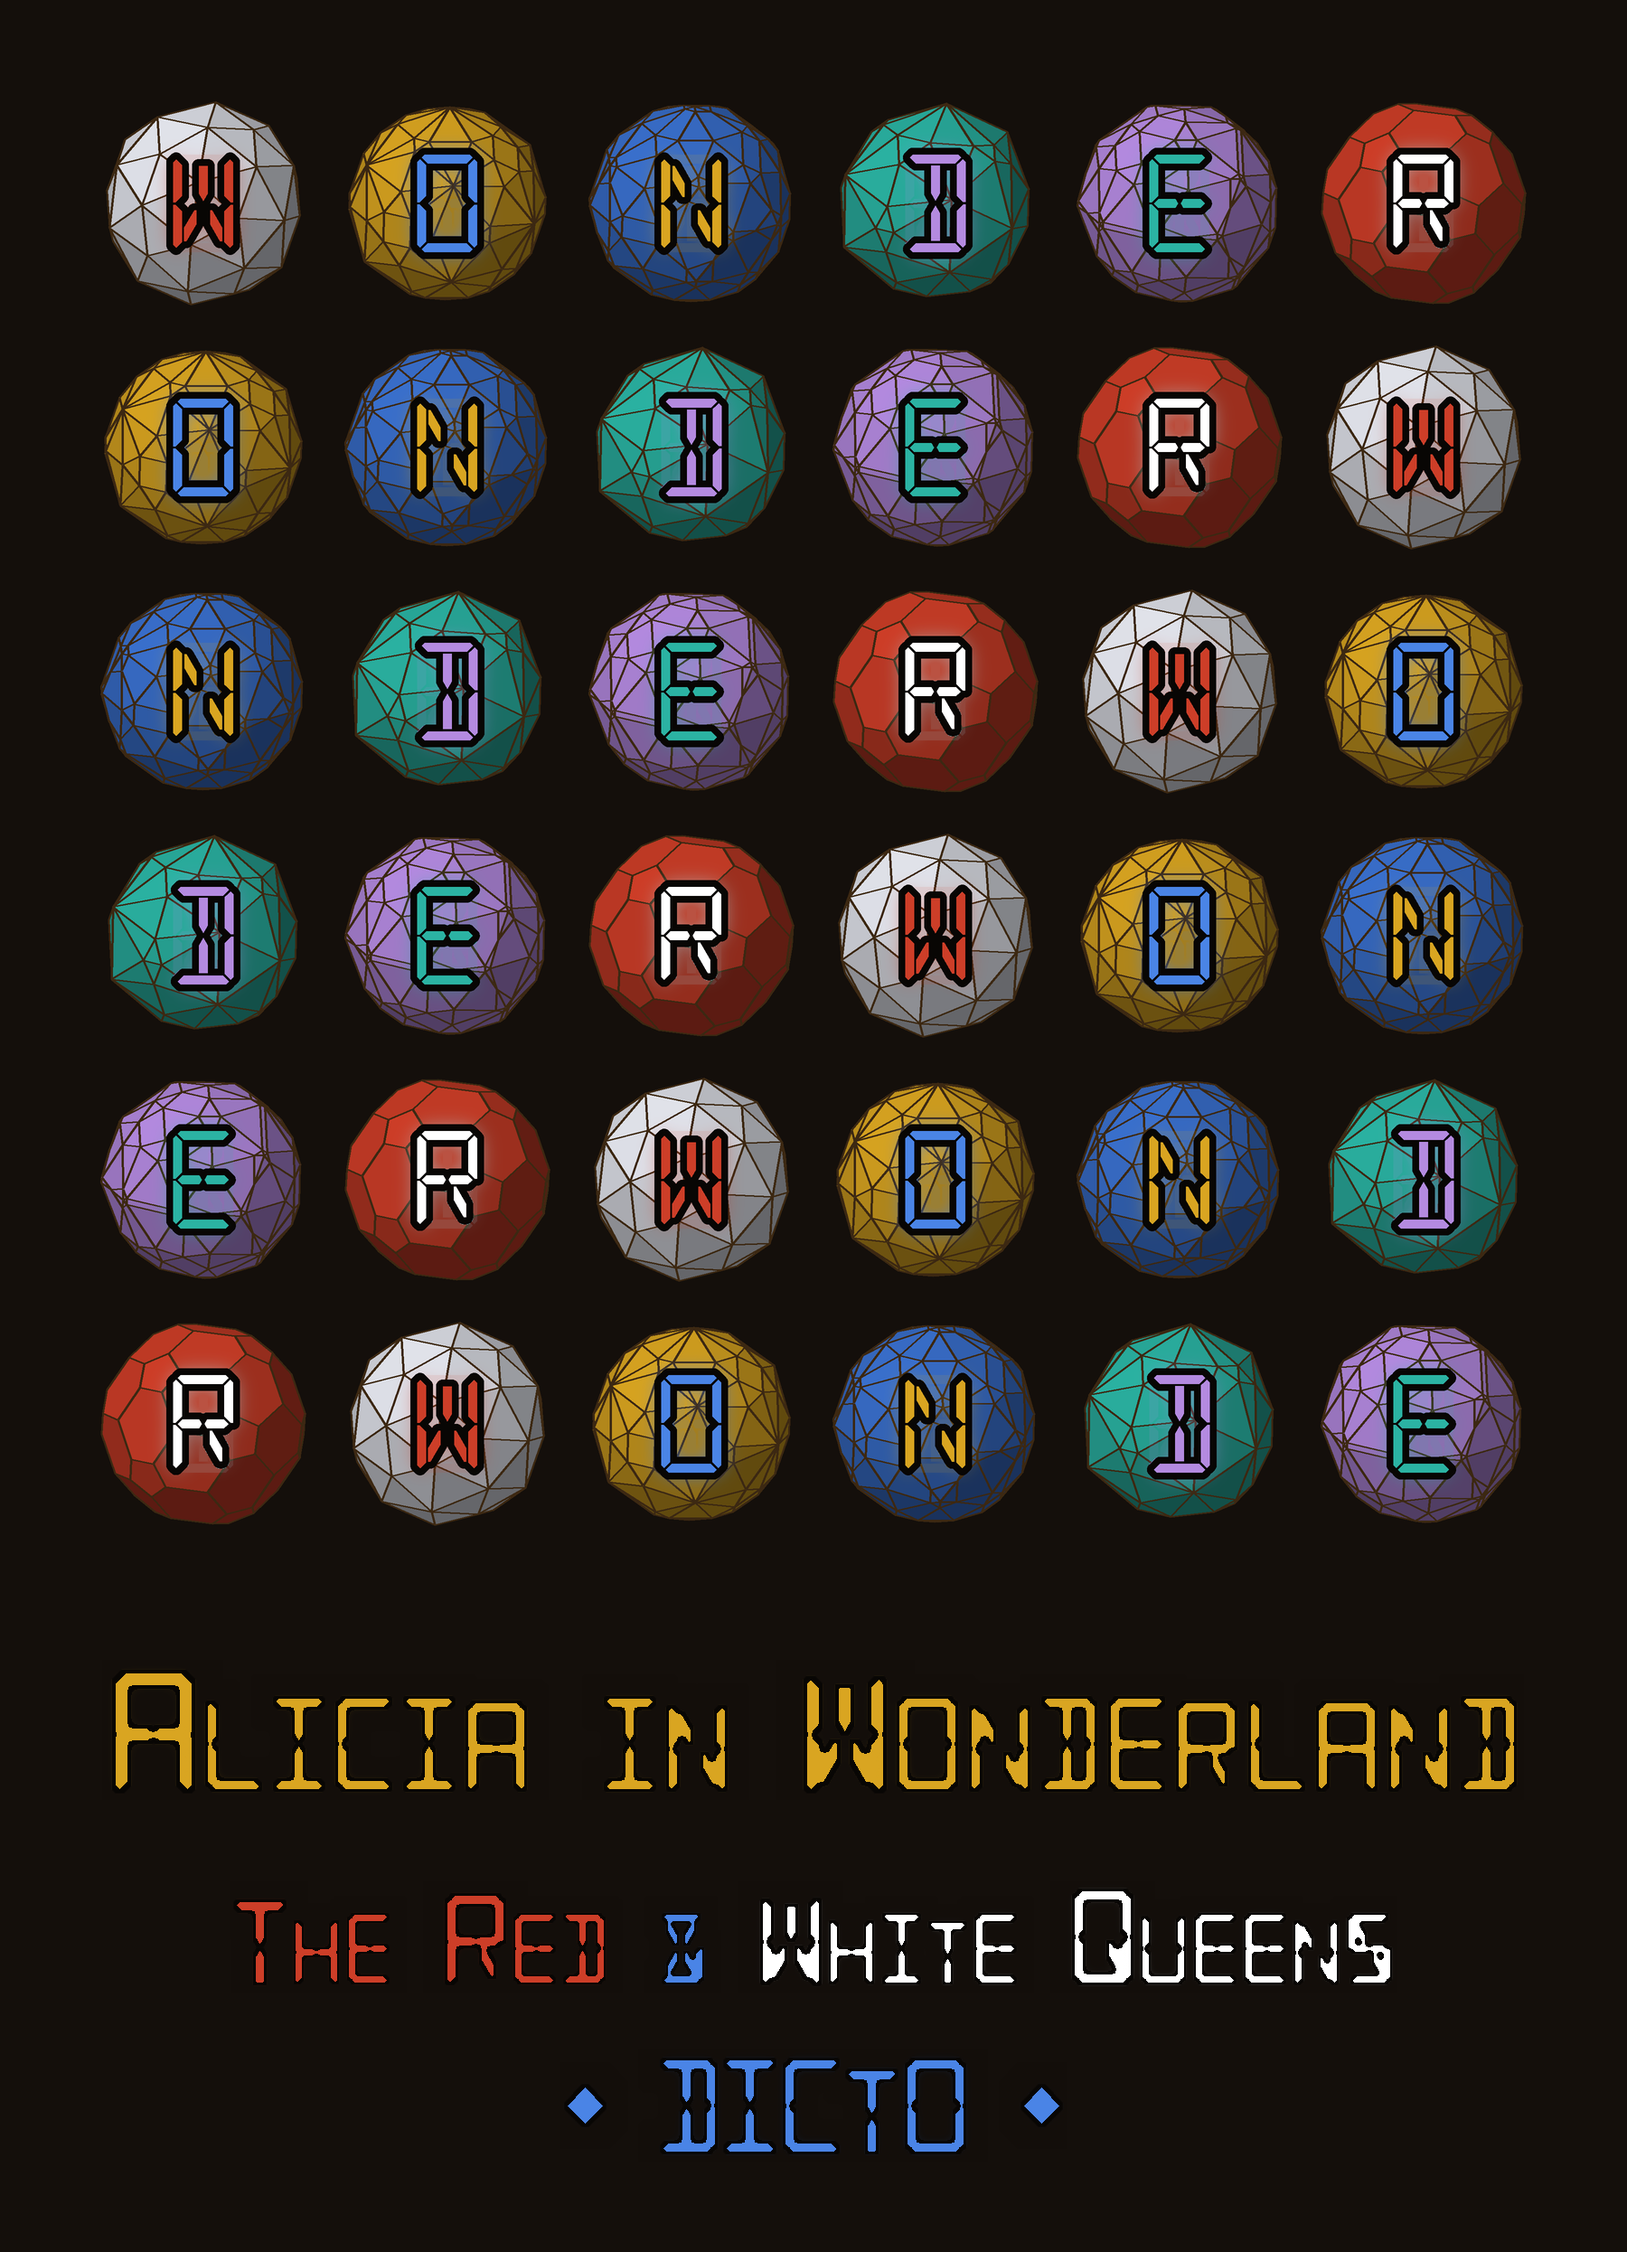
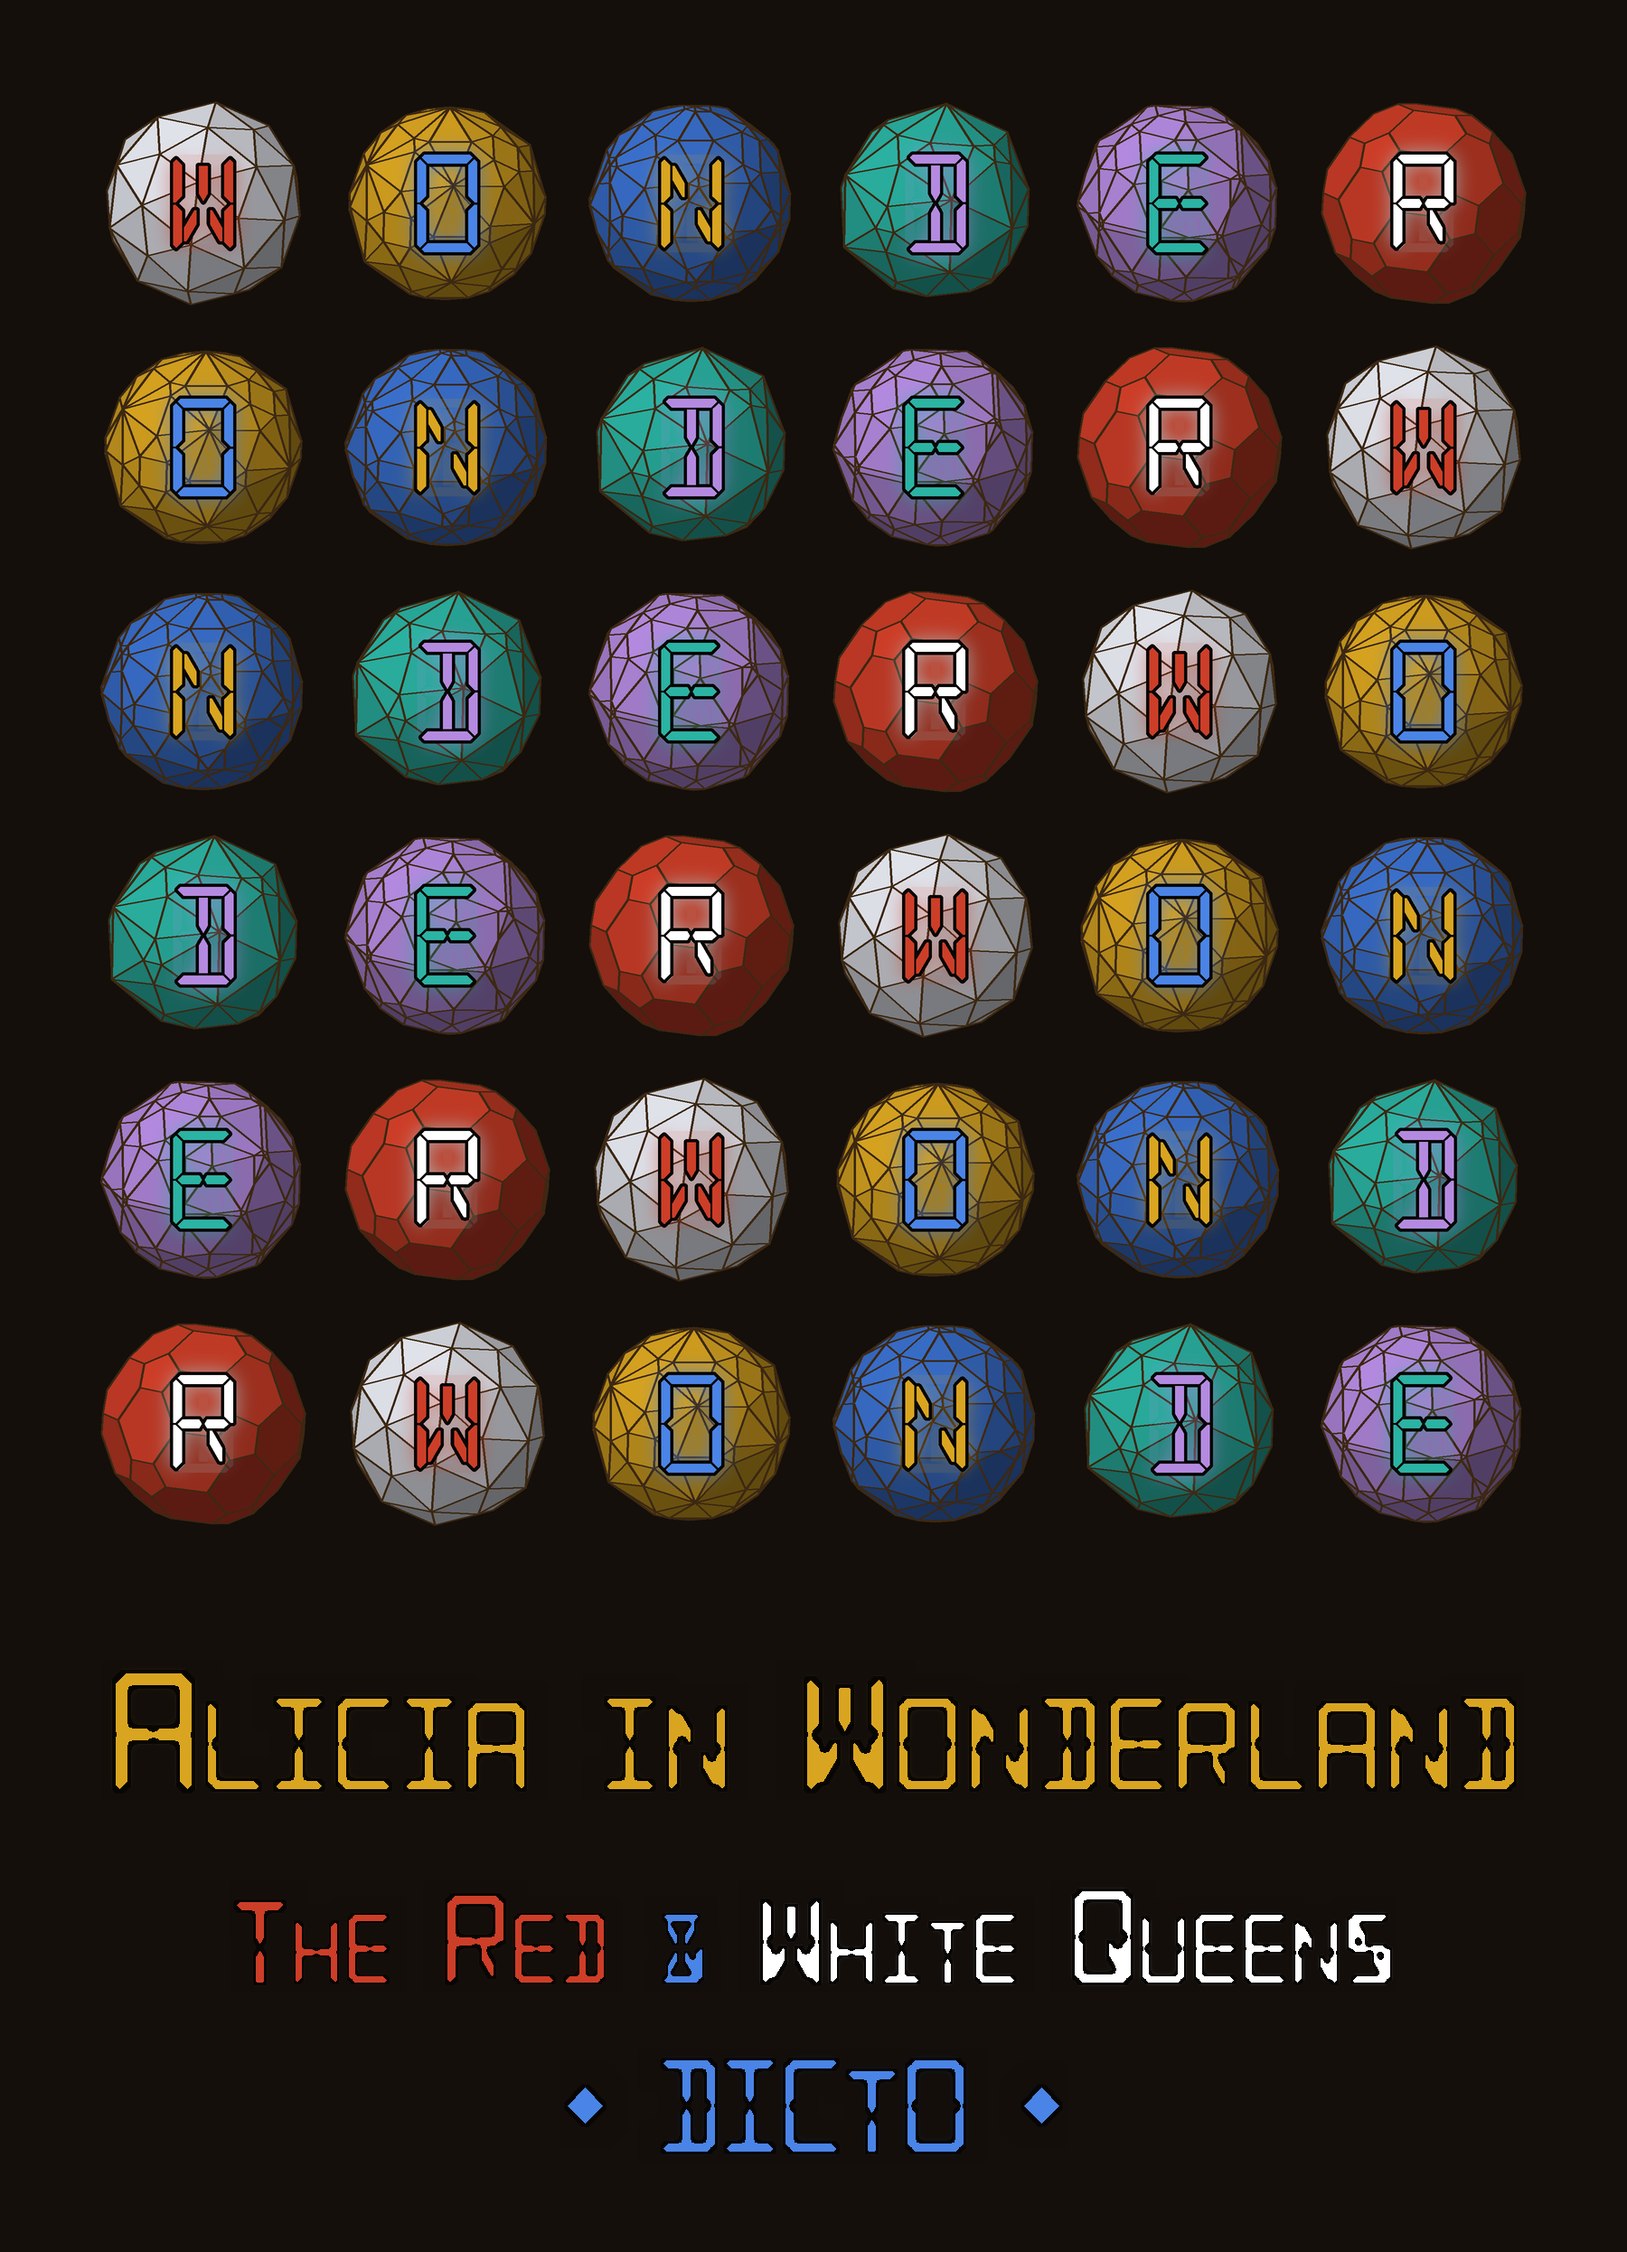
Alicia cover: thinner black letter outlines (DICTO 10-29)

diff --git a/studies/2026-10-29-wonder-cover/scripts/wonder_square.py b/studies/2026-10-29-wonder-cover/scripts/wonder_square.py
@@ -63,7 +63,7 @@ for i in range(6):
             dr.polygon(pts, fill=col); dr.line(pts + [pts[0]], fill=EDGE, width=2 * SS)
 f = ImageFont.truetype(os.environ.get('LEDFONT', 'DSEG14Classic-Regular.ttf'), int(0.06 * W))
 def carved(ch):
-    box = int(0.13 * W); edge = int(0.0042 * W)   # DICTO 10-29: black letter outlines over the spheres, stronger than on the flat-faced covers
+    box = int(0.13 * W); edge = int(0.0022 * W)   # DICTO 10-29: thinner black outlines again ('try with less black'), the letters now coloured
     def lay(t, sw=0):
         m = Image.new('L', (box, box), 0); ImageDraw.Draw(m).text((box / 2, box / 2), t, font=f, fill=255, anchor='mm', stroke_width=sw, stroke_fill=255)
         return np.array(m, float) / 255
